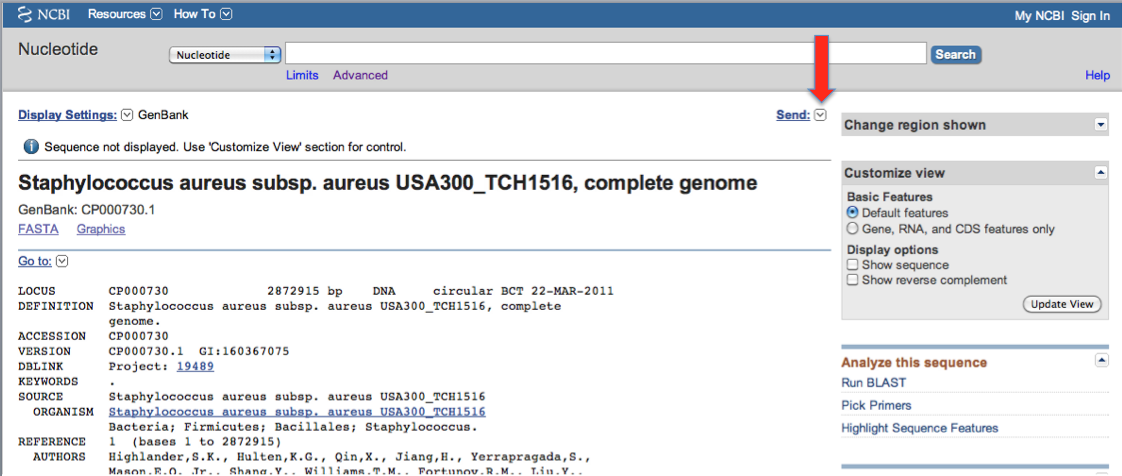
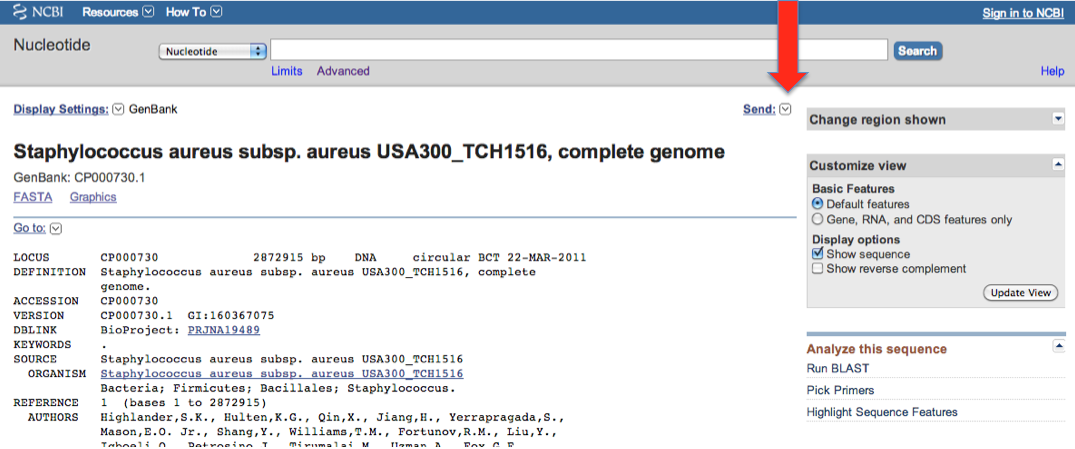
Support for organisms with multiple GenBank files.
git-svn-id: https://svn.code.sf.net/p/snpeff/code@242 3341ced4-5d85-40e2-8a85-8d6cb0b68e6b

diff --git a/SnpEffect/trunk/html/supportNewGenome.html b/SnpEffect/trunk/html/supportNewGenome.html
@@ -151,29 +151,33 @@ This example shows how to create a database for a new genome. For this example w
 <ol>
 	<li> Go to NIH page for <a class="body" href="http://www.ncbi.nlm.nih.gov/nuccore/CP000730.1">CP000730</a>
 
-	<li> Download the features in geneBank forma, by clicking as shown in the following images (red arrows)<p>
+	<li> Download the features in geneBank format, by clicking as shown in the following images (red arrows)<p>
 		<p>
+			<center> <img width=800 src="images/genBank_0.png"> </center> <p>
+
+		Make sure you click the "Update" button!<p>
+		Then you go to the "Send" menu<p>
+
 			<center> <img width=800 src="images/genBank_1.png"> </center> <p>
 		and then <p>
 			<center> <img width=800 src="images/genBank_2.png"> </center> <p>
 
 	<li> Save the GenBank data to "/path/to/snpEff/data/CP000730/genes.gb".
-		<p>
 
-	<li> Take a look at the file to see if there is sequencing information included. Using a text editor, open the file and scroll down to the last line. If there is an empty "ORIGIN" feature, then you have to download a FASTA file (otherwise, you are OK).
 		<p>
-		<center> <img width=800 src="images/genBank_3.png"> </center> <p>
+		 <b>Note:</b> If there are more than one genbank file for an organism (e.g. multiple chromosomes), then you can download each file and save them separately.<p>
+		 E.g.: Vibrio Cholerae has two chromosomes with GenBank accessions: NC_002505.1 and NC_002506.1.
+		 You can download both files and save them as snpEff/data/vibrio/NC_002505.1.gb and snpEff/data/vibrio/NC_002506.1.gb respectively.
+		 Then you can add the following entries in the config file:
+<pre>
+# Vibrio Cholerae
+vibrio.genome : Vibrio Cholerae
+    vibrio.chromosomes : NC_002505.1, NC_002506.1
+    vibrio.NC_002505.1.codonTable : Bacterial_and_Plant_Plastid
+    vibrio.NC_002506.1.codonTable : Bacterial_and_Plant_Plastid
+</pre>
 
-	<li> In this case, there is no "ORIGIN" sequence, so we must download the fasta file. Click on the FASTA download buttons and options as shown in the next figures
-		<p>
-		<center> <img width=800 src="images/genBank_4.png"> </center> <p>
-		and then <p>
-		<center> <img width=800 src="images/genBank_5.png"> </center> <p>
-
-	<li> Save the FASTA data to "/path/to/snpEff/data/genomes/CP000730.fa".
-		<p>
-
-	<li> <a class="body" href="#conf">Add</a> the new genome to the config file (see section "How to add a new genome to the configuration file" for details)
+		SnpEff will load both files when building the database.
 		<p>
 
 	<li> Create database (note the "-genbank" flag):

diff --git a/SnpEffect/trunk/html/supportNewGenome_content.html b/SnpEffect/trunk/html/supportNewGenome_content.html
@@ -116,29 +116,33 @@ This example shows how to create a database for a new genome. For this example w
 <ol>
 	<li> Go to NIH page for <a class="body" href="http://www.ncbi.nlm.nih.gov/nuccore/CP000730.1">CP000730</a>
 
-	<li> Download the features in geneBank forma, by clicking as shown in the following images (red arrows)<p>
+	<li> Download the features in geneBank format, by clicking as shown in the following images (red arrows)<p>
 		<p>
+			<center> <img width=800 src="images/genBank_0.png"> </center> <p>
+
+		Make sure you click the "Update" button!<p>
+		Then you go to the "Send" menu<p>
+
 			<center> <img width=800 src="images/genBank_1.png"> </center> <p>
 		and then <p>
 			<center> <img width=800 src="images/genBank_2.png"> </center> <p>
 
 	<li> Save the GenBank data to "/path/to/snpEff/data/CP000730/genes.gb".
-		<p>
 
-	<li> Take a look at the file to see if there is sequencing information included. Using a text editor, open the file and scroll down to the last line. If there is an empty "ORIGIN" feature, then you have to download a FASTA file (otherwise, you are OK).
 		<p>
-		<center> <img width=800 src="images/genBank_3.png"> </center> <p>
+		 <b>Note:</b> If there are more than one genbank file for an organism (e.g. multiple chromosomes), then you can download each file and save them separately.<p>
+		 E.g.: Vibrio Cholerae has two chromosomes with GenBank accessions: NC_002505.1 and NC_002506.1.
+		 You can download both files and save them as snpEff/data/vibrio/NC_002505.1.gb and snpEff/data/vibrio/NC_002506.1.gb respectively.
+		 Then you can add the following entries in the config file:
+<pre>
+# Vibrio Cholerae
+vibrio.genome : Vibrio Cholerae
+    vibrio.chromosomes : NC_002505.1, NC_002506.1
+    vibrio.NC_002505.1.codonTable : Bacterial_and_Plant_Plastid
+    vibrio.NC_002506.1.codonTable : Bacterial_and_Plant_Plastid
+</pre>
 
-	<li> In this case, there is no "ORIGIN" sequence, so we must download the fasta file. Click on the FASTA download buttons and options as shown in the next figures
-		<p>
-		<center> <img width=800 src="images/genBank_4.png"> </center> <p>
-		and then <p>
-		<center> <img width=800 src="images/genBank_5.png"> </center> <p>
-
-	<li> Save the FASTA data to "/path/to/snpEff/data/genomes/CP000730.fa".
-		<p>
-
-	<li> <a class="body" href="#conf">Add</a> the new genome to the config file (see section "How to add a new genome to the configuration file" for details)
+		SnpEff will load both files when building the database.
 		<p>
 
 	<li> Create database (note the "-genbank" flag):

diff --git a/SnpEffect/trunk/src/main/java/ca/mcgill/mcb/pcingola/snpEffect/factory/SnpEffPredictorFactoryFeatures.java b/SnpEffect/trunk/src/main/java/ca/mcgill/mcb/pcingola/snpEffect/factory/SnpEffPredictorFactoryFeatures.java
@@ -1,5 +1,7 @@
 package ca.mcgill.mcb.pcingola.snpEffect.factory;
 
+import java.util.List;
+
 import ca.mcgill.mcb.pcingola.genBank.Feature;
 import ca.mcgill.mcb.pcingola.genBank.Feature.Type;
 import ca.mcgill.mcb.pcingola.genBank.Features;
@@ -26,7 +28,7 @@ import ca.mcgill.mcb.pcingola.util.GprSeq;
 public abstract class SnpEffPredictorFactoryFeatures extends SnpEffPredictorFactory {
 
 	public static final int OFFSET = 1;
-	Chromosome chromosome; // It is assumed that there is only one 'Chromosome' (i.e. only one 'SOURCE' feature)
+	Chromosome chromosomeSource; // It is assumed that there is only one 'Chromosome' (i.e. only one 'SOURCE' feature)
 
 	public SnpEffPredictorFactoryFeatures(Config config) {
 		super(config, OFFSET);
@@ -46,20 +48,20 @@ public abstract class SnpEffPredictorFactoryFeatures extends SnpEffPredictorFact
 
 			// Add chromosome
 			if (f.getType() == Type.SOURCE) {
-				if (chromosome != null) throw new RuntimeException("SOURCE already assigned to chromosome");
-				chromosome = new Chromosome(genome, start, end, 1, chromoName(f)); // Convert coordinates to zero-based 
-				add(chromosome);
+				if (chromosomeSource != null) throw new RuntimeException("SOURCE already assigned to chromosome");
+				chromosomeSource = new Chromosome(genome, start, end, 1, chromoName(f)); // Convert coordinates to zero-based 
+				add(chromosomeSource);
 			}
 		}
 
 		// Sanity check
-		if (chromosome == null) throw new RuntimeException("Could not find SOURCE feature");
+		if (chromosomeSource == null) throw new RuntimeException("Could not find SOURCE feature");
 
 		//---
 		// Add a genes
 		//---
 		for (Feature f : features.getFeatures()) {
-			if (f.getType() == Type.GENE) findOrCreateGene(f, chromosome, false);
+			if (f.getType() == Type.GENE) findOrCreateGene(f, chromosomeSource, false);
 		}
 
 		//---
@@ -73,7 +75,7 @@ public abstract class SnpEffPredictorFactoryFeatures extends SnpEffPredictorFact
 				int end = f.getEnd() - inOffset;
 
 				String trId = getTrId(f);
-				Gene gene = findOrCreateGene(f, chromosome, false); // Find or create gene
+				Gene gene = findOrCreateGene(f, chromosomeSource, false); // Find or create gene
 
 				// Add transcript
 				Transcript tr = new Transcript(gene, start, end, f.isComplement() ? -1 : 1, trId);
@@ -99,7 +101,7 @@ public abstract class SnpEffPredictorFactoryFeatures extends SnpEffPredictorFact
 					if (verbose) System.err.println("WARNING: Transcript '" + trId + "' not found. Creating new transcript." + f);
 
 					// Not found? => Create gene and transcript
-					Gene gene = findOrCreateGene(f, chromosome, false); // Find or create gene
+					Gene gene = findOrCreateGene(f, chromosomeSource, false); // Find or create gene
 					trId = "Tr_" + start + "_" + end;
 					tr = new Transcript(gene, start, end, f.isComplement() ? -1 : 1, trId);
 					add(tr);
@@ -128,18 +130,24 @@ public abstract class SnpEffPredictorFactoryFeatures extends SnpEffPredictorFact
 	@Override
 	public SnpEffectPredictor create() {
 		// Read gene intervals from a file
-		System.out.println("Reading data file  : '" + fileName + "'");
+		System.out.println("Config: " + config.getGenome());
+
 		try {
 			// Read file and add all features
-			Features features = readFeatures();
-			addFeatures(features);
+			List<Features> featList = readFeatures();
 
-			// Some clean-up before readng exon sequences
-			beforeExonSequences();
+			// Iterate over all sources
+			for (Features features : featList) {
+				chromosomeSource = null; // Make sure we create a new source for each file
+				addFeatures(features);
 
-			// Get exon sequences
-			String sequence = sequence(features);
-			addExonSequences(chromosome.getId(), sequence);
+				// Some clean-up before readng exon sequences
+				beforeExonSequences();
+
+				// Get exon sequences
+				String sequence = sequence(features);
+				addExonSequences(chromosomeSource.getId(), sequence);
+			}
 
 			// Finish up (fix problems, add missing info, etc.)
 			finishUp(false);
@@ -155,6 +163,13 @@ public abstract class SnpEffPredictorFactoryFeatures extends SnpEffPredictorFact
 		return snpEffectPredictor;
 	}
 
+	/**
+	 * Find (or create) a gene from a feature
+	 * @param f
+	 * @param chr
+	 * @param warn
+	 * @return
+	 */
 	Gene findOrCreateGene(Feature f, Chromosome chr, boolean warn) {
 		int start = f.getStart() - inOffset;
 		int end = f.getEnd() - inOffset;
@@ -193,6 +208,13 @@ public abstract class SnpEffPredictorFactoryFeatures extends SnpEffPredictorFact
 		return "Gene_" + start + "_" + end;
 	}
 
+	/**
+	 * Get gene name from feature
+	 * @param f
+	 * @param start
+	 * @param end
+	 * @return
+	 */
 	protected String geneName(Feature f, int start, int end) {
 		// Try 'gene'...
 		String geneName = f.get("gene");
@@ -221,7 +243,7 @@ public abstract class SnpEffPredictorFactoryFeatures extends SnpEffPredictorFact
 	 * Get features from file
 	 * @return
 	 */
-	protected abstract Features readFeatures();
+	protected abstract List<Features> readFeatures();
 
 	/**
 	 * Get sequence either from features or from FASTA file

diff --git a/SnpEffect/trunk/src/main/java/ca/mcgill/mcb/pcingola/snpEffect/factory/SnpEffPredictorFactory.java b/SnpEffect/trunk/src/main/java/ca/mcgill/mcb/pcingola/snpEffect/factory/SnpEffPredictorFactory.java
@@ -1,5 +1,6 @@
 package ca.mcgill.mcb.pcingola.snpEffect.factory;
 
+import java.util.ArrayList;
 import java.util.Collections;
 import java.util.HashMap;
 import java.util.LinkedList;
@@ -382,6 +383,11 @@ public abstract class SnpEffPredictorFactory {
 		// If some UTRs are missing: calculate UTR information from CDS whenever possible
 		System.out.print("\n\tCreate UTRs from CDS (if needed): ");
 		utrFromCds(verbose, showEvery);
+
+		// Remove empty chromosomes
+		removeEmptryChromos();
+
+		// Done
 		System.out.println("");
 	}
 
@@ -455,6 +461,28 @@ public abstract class SnpEffPredictorFactory {
 		}
 
 		throw new RuntimeException("Cannot find reference sequence.");
+	}
+
+	/**
+	 * Remove emptry chromosomes
+	 */
+	void removeEmptryChromos() {
+		System.out.println("\n\tRemove empty chromosomes: ");
+		ArrayList<Chromosome> chrToDelete = new ArrayList<Chromosome>();
+		for (Chromosome chr : config.getGenome())
+			if (chr.size() <= 1) chrToDelete.add(chr);
+
+		for (Chromosome chr : chrToDelete) {
+			System.out.println("\t\tRemoving empty chromosome: '" + chr.getId() + "'");
+			config.getGenome().remove(chr);
+		}
+
+		if (chrToDelete.size() > 0) {
+			System.out.print("\t\tChromosome left: ");
+			for (Chromosome chr : config.getGenome())
+				System.out.print(chr.getId() + " ");
+			System.out.println("");
+		}
 	}
 
 	/** 

diff --git a/SnpEffect/trunk/src/main/java/ca/mcgill/mcb/pcingola/snpEffect/factory/SnpEffPredictorFactoryEmbl.java b/SnpEffect/trunk/src/main/java/ca/mcgill/mcb/pcingola/snpEffect/factory/SnpEffPredictorFactoryEmbl.java
@@ -1,8 +1,14 @@
 package ca.mcgill.mcb.pcingola.snpEffect.factory;
 
+import java.util.ArrayList;
+import java.util.List;
+
 import ca.mcgill.mcb.pcingola.genBank.Embl;
 import ca.mcgill.mcb.pcingola.genBank.Features;
+import ca.mcgill.mcb.pcingola.genBank.GenBank;
+import ca.mcgill.mcb.pcingola.interval.Chromosome;
 import ca.mcgill.mcb.pcingola.snpEffect.Config;
+import ca.mcgill.mcb.pcingola.util.Gpr;
 
 /**
  * This class creates a SnpEffectPredictor from an Embl file.
@@ -21,7 +27,20 @@ public class SnpEffPredictorFactoryEmbl extends SnpEffPredictorFactoryFeatures {
 	 * @return
 	 */
 	@Override
-	protected Features readFeatures() {
-		return new Embl(fileName);
+	protected List<Features> readFeatures() {
+		ArrayList<Features> featList = new ArrayList<Features>();
+
+		if (Gpr.canRead(fileName)) {
+			System.out.println("Reading data file  : '" + fileName + "'");
+			featList.add(new Embl(fileName));
+		} else {
+			for (Chromosome chr : config.getGenome()) {
+				String chrFileName = config.getDirDataVersion() + "/" + chr.getId() + ".embl";
+				System.out.println("Reading data file  : '" + chrFileName + "'");
+				featList.add(new GenBank(chrFileName));
+			}
+		}
+
+		return featList;
 	}
 }

diff --git a/SnpEffect/trunk/src/main/java/ca/mcgill/mcb/pcingola/snpEffect/factory/SnpEffPredictorFactoryGenBank.java b/SnpEffect/trunk/src/main/java/ca/mcgill/mcb/pcingola/snpEffect/factory/SnpEffPredictorFactoryGenBank.java
@@ -1,8 +1,13 @@
 package ca.mcgill.mcb.pcingola.snpEffect.factory;
 
+import java.util.ArrayList;
+import java.util.List;
+
 import ca.mcgill.mcb.pcingola.genBank.Features;
 import ca.mcgill.mcb.pcingola.genBank.GenBank;
+import ca.mcgill.mcb.pcingola.interval.Chromosome;
 import ca.mcgill.mcb.pcingola.snpEffect.Config;
+import ca.mcgill.mcb.pcingola.util.Gpr;
 
 /**
  * This class creates a SnpEffectPredictor from a GenBank file.
@@ -21,7 +26,20 @@ public class SnpEffPredictorFactoryGenBank extends SnpEffPredictorFactoryFeature
 	 * @return
 	 */
 	@Override
-	protected Features readFeatures() {
-		return new GenBank(fileName);
+	protected List<Features> readFeatures() {
+		ArrayList<Features> featList = new ArrayList<Features>();
+
+		if (Gpr.canRead(fileName)) {
+			System.out.println("Reading data file  : '" + fileName + "'");
+			featList.add(new GenBank(fileName));
+		} else {
+			for (Chromosome chr : config.getGenome()) {
+				String chrFileName = config.getDirDataVersion() + "/" + chr.getId() + ".gb";
+				System.out.println("Reading data file  : '" + chrFileName + "'");
+				featList.add(new GenBank(chrFileName));
+			}
+		}
+
+		return featList;
 	}
 }

diff --git a/SnpEffect/trunk/src/main/java/ca/mcgill/mcb/pcingola/snpEffect/commandLine/SnpEff.java b/SnpEffect/trunk/src/main/java/ca/mcgill/mcb/pcingola/snpEffect/commandLine/SnpEff.java
@@ -40,9 +40,9 @@ public class SnpEff implements CommandLine {
 
 	public static final int COMMAND_LINE_WIDTH = 40;
 
-	public static final String BUILD = "2012-09-05";
+	public static final String BUILD = "2012-10-09";
 	public static final String VERSION_MAJOR = "3.0";
-	public static final String REVISION = "j";
+	public static final String REVISION = "k";
 	public static final String VERSION_SHORT = VERSION_MAJOR + REVISION;
 	public static final String VERSION = "SnpEff " + VERSION_SHORT + " (build " + BUILD + "), by " + Pcingola.BY;
 

diff --git a/SnpEffect/trunk/src/main/java/ca/mcgill/mcb/pcingola/interval/Genome.java b/SnpEffect/trunk/src/main/java/ca/mcgill/mcb/pcingola/interval/Genome.java
@@ -314,6 +314,17 @@ public class Genome extends Marker implements Serializable, Iterable<Chromosome>
 	}
 
 	/**
+	 * Remove a chromosome
+	 * WARINIG: Doesn't check any dependencies!
+	 * 
+	 * @param chromo
+	 */
+	public void remove(Chromosome chromo) {
+		chromosomeNames.remove(chromo.getId());
+		chromosomes.remove(chromo.getId());
+	}
+
+	/**
 	 * Parse a line from a serialized file
 	 * @param line
 	 * @return

diff --git a/SnpEffect/trunk/src/main/java/ca/mcgill/mcb/pcingola/codons/CodonTables.java b/SnpEffect/trunk/src/main/java/ca/mcgill/mcb/pcingola/codons/CodonTables.java
@@ -56,7 +56,7 @@ public class CodonTables implements Iterable<CodonTable> {
 	/**
 	 * Add a codon table for a given genome & chromosome
 	 * @param genome
-	 * @param chromosome
+	 * @param chromosomeSource
 	 * @param codonTable
 	 */
 	public void add(Genome genome, Chromosome chr, CodonTable codonTable) {
